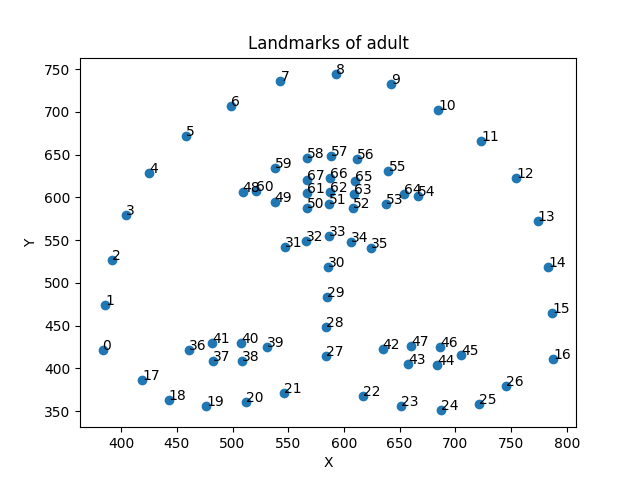
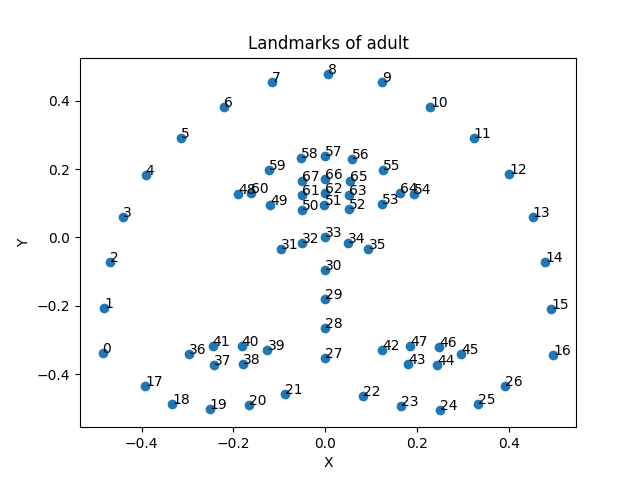
modify the scatter

diff --git a/src/scatter.py b/src/scatter.py
@@ -11,48 +11,26 @@ adult = landmarks[landmarks['baby'] == 0]
 def scatter(df, category):
     # calculate the means, medians,stds,range of x,y
     x_means = []
-    x_medians = []
-    x_stds = []
-    x_ranges = []
     y_means = []
-    y_medians = []
-    y_stds = []
-    y_ranges = []
 
     for i in range(68):
-        x_col = 'x{}'.format(i)
-        y_col = 'y{}'.format(i)
-        x_data = df[x_col]
-        y_data = df[y_col]
-        x_mean = np.mean(x_data)
-        x_median = np.median(x_data)
-        x_std = np.std(x_data)
-        x_range = np.max(x_data) - np.min(x_data)
-        y_mean = np.mean(y_data)
-        y_median = np.median(y_data)
-        y_std = np.std(y_data)
-        y_range = np.max(y_data) - np.min(y_data)
+        x_col = 'norm_cenrot-x{}'.format(i)
+        y_col = 'norm_cenrot-y{}'.format(i)
+        x_mean = np.mean(df[x_col])
         x_means.append(x_mean)
-        x_medians.append(x_median)
-        x_stds.append(x_std)
-        x_ranges.append(x_range)
+        x_median = np.median(df[x_col])
+        x_std = np.std(df[x_col])
+        x_range = np.max(df[x_col]) - np.min(df[x_col])
+        y_mean = np.mean(df[y_col])
         y_means.append(y_mean)
-        y_medians.append(y_median)
-        y_stds.append(y_std)
-        y_ranges.append(y_range)
+        y_median = np.median(df[y_col])
+        y_std = np.std(df[y_col])
+        y_range = np.max(df[y_col]) - np.min(df[y_col])
+        print('Column x{}: Mean={:.2f}, Median={:.2f}, Std={:.2f}, Range={:.2f}'.format(i, x_mean, x_median,
+                                                                                        x_std, x_range))
+        print('Column y{}: Mean={:.2f}, Median={:.2f}, Std={:.2f}, Range={:.2f}'.format(i, y_mean, y_median,
+                                                                                        y_std, y_range))
 
-    # output the outcome
-    for i in range(68):
-        print('Column x{}: Mean={:.2f}, Median={:.2f}, Std={:.2f}, Range={:.2f}'.format(i, x_means[i], x_medians[i],
-                                                                                        x_stds[i], x_ranges[i]))
-        print('Column y{}: Mean={:.2f}, Median={:.2f}, Std={:.2f}, Range={:.2f}'.format(i, y_means[i], y_medians[i],
-                                                                                        y_stds[i], y_ranges[i]))
-
-    '''
-    for i, (x, y) in enumerate(zip(x_mean, y_mean)):
-        plt.scatter(x, y)
-        plt.text(x + 0.02, y + 0.02, str(i), fontsize=10)
-    '''
 
     plt.scatter(x_means, y_means)
 
@@ -108,5 +86,3 @@ def scatter(df, category):
 scatter(infant, "infant")
 
 scatter(adult, "adult")
-
-

diff --git a/scatter.md b/scatter.md
@@ -8,142 +8,142 @@ Calculate the mean, median, standard deviation, and range of the variables, and 
 ## Result
 The mean, median, standard deviation, and range of the variables
 ```agsl
-Column x0: Mean=441.12, Median=351.00, Std=324.78, Range=1939.44
-Column y0: Mean=414.17, Median=331.45, Std=302.80, Range=2158.15
-Column x1: Mean=443.18, Median=354.00, Std=321.94, Range=1931.40
-Column y1: Mean=460.23, Median=375.00, Std=332.98, Range=2377.14
-Column x2: Mean=448.41, Median=358.65, Std=321.50, Range=1944.56
-Column y2: Mean=505.70, Median=411.00, Std=365.13, Range=2563.18
-Column x3: Mean=458.79, Median=373.28, Std=323.58, Range=1904.77
-Column y3: Mean=549.92, Median=451.00, Std=398.40, Range=2720.06
-Column x4: Mean=477.37, Median=387.00, Std=330.39, Range=1925.28
-Column y4: Mean=591.51, Median=491.00, Std=430.32, Range=2824.17
-Column x5: Mean=505.87, Median=406.00, Std=342.75, Range=1977.40
-Column y5: Mean=626.96, Median=521.24, Std=458.78, Range=2885.66
-Column x6: Mean=540.10, Median=432.29, Std=360.66, Range=2060.30
-Column y6: Mean=655.41, Median=541.46, Std=482.45, Range=2888.04
-Column x7: Mean=579.18, Median=467.57, Std=383.44, Range=2252.63
-Column y7: Mean=678.71, Median=562.00, Std=502.14, Range=2877.31
-Column x8: Mean=628.34, Median=510.74, Std=412.10, Range=2452.90
-Column y8: Mean=689.63, Median=572.27, Std=507.80, Range=2845.17
-Column x9: Mean=678.02, Median=559.42, Std=440.67, Range=2669.13
-Column y9: Mean=678.99, Median=561.11, Std=499.83, Range=2768.80
-Column x10: Mean=717.15, Median=586.10, Std=464.17, Range=2837.29
-Column y10: Mean=655.67, Median=548.00, Std=478.96, Range=2717.80
-Column x11: Mean=751.81, Median=617.00, Std=487.40, Range=2951.84
-Column y11: Mean=627.53, Median=524.41, Std=454.25, Range=2500.68
-Column x12: Mean=780.34, Median=642.98, Std=505.94, Range=3005.99
-Column y12: Mean=592.42, Median=493.00, Std=425.57, Range=2337.28
-Column x13: Mean=798.92, Median=656.58, Std=518.06, Range=3035.64
-Column y13: Mean=551.02, Median=456.13, Std=393.58, Range=2158.42
-Column x14: Mean=808.74, Median=668.56, Std=525.06, Range=3065.14
-Column y14: Mean=506.64, Median=418.00, Std=360.57, Range=2029.50
-Column x15: Mean=813.32, Median=670.36, Std=528.42, Range=3055.88
-Column y15: Mean=460.99, Median=374.67, Std=327.86, Range=1925.23
-Column x16: Mean=815.68, Median=673.38, Std=531.35, Range=3068.28
-Column y16: Mean=413.45, Median=329.32, Std=297.35, Range=1872.13
-Column x17: Mean=478.40, Median=386.85, Std=341.51, Range=2078.40
-Column y17: Mean=375.57, Median=299.26, Std=278.33, Range=1828.41
-Column x18: Mean=500.71, Median=402.58, Std=351.84, Range=2132.55
-Column y18: Mean=356.77, Median=282.50, Std=263.43, Range=1682.61
-Column x19: Mean=529.84, Median=424.00, Std=365.77, Range=2203.76
-Column y19: Mean=350.11, Median=276.00, Std=258.17, Range=1572.00
-Column x20: Mean=559.79, Median=450.58, Std=381.18, Range=2247.42
-Column y20: Mean=353.15, Median=281.99, Std=259.71, Range=1492.62
-Column x21: Mean=588.06, Median=475.46, Std=396.91, Range=2282.53
-Column y21: Mean=361.78, Median=289.35, Std=264.54, Range=1489.99
-Column x22: Mean=661.85, Median=546.86, Std=435.43, Range=2585.35
-Column y22: Mean=360.75, Median=288.00, Std=262.29, Range=1477.36
-Column x23: Mean=691.86, Median=569.20, Std=454.43, Range=2638.26
-Column y23: Mean=351.31, Median=279.50, Std=257.09, Range=1459.54
-Column x24: Mean=721.72, Median=595.55, Std=473.68, Range=2695.50
-Column y24: Mean=348.32, Median=275.00, Std=255.86, Range=1492.73
-Column x25: Mean=750.01, Median=620.74, Std=492.75, Range=2759.27
-Column y25: Mean=355.24, Median=281.00, Std=261.96, Range=1580.71
-Column x26: Mean=771.61, Median=641.00, Std=506.02, Range=2870.50
-Column y26: Mean=372.91, Median=296.00, Std=276.19, Range=1686.55
-Column x27: Mean=625.94, Median=514.00, Std=413.80, Range=2446.94
-Column y27: Mean=402.31, Median=328.00, Std=288.92, Range=1764.71
-Column x28: Mean=625.79, Median=512.21, Std=413.31, Range=2451.26
-Column y28: Mean=430.47, Median=349.35, Std=310.21, Range=1837.00
-Column x29: Mean=625.93, Median=516.28, Std=413.58, Range=2450.98
-Column y29: Mean=457.07, Median=371.43, Std=332.14, Range=1890.70
-Column x30: Mean=626.06, Median=513.00, Std=413.94, Range=2424.10
-Column y30: Mean=484.52, Median=394.35, Std=355.40, Range=1941.81
-Column x31: Mean=589.92, Median=477.00, Std=389.20, Range=2329.23
-Column y31: Mean=510.18, Median=423.00, Std=370.10, Range=2164.28
-Column x32: Mean=607.45, Median=488.00, Std=399.75, Range=2385.41
-Column y32: Mean=514.59, Median=424.06, Std=374.15, Range=2139.32
-Column x33: Mean=625.94, Median=508.54, Std=410.61, Range=2424.72
-Column y33: Mean=518.23, Median=428.00, Std=377.94, Range=2137.97
-Column x34: Mean=644.54, Median=522.00, Std=421.54, Range=2499.33
-Column y34: Mean=513.85, Median=426.44, Std=373.31, Range=2131.08
-Column x35: Mean=661.28, Median=541.00, Std=431.18, Range=2547.85
-Column y35: Mean=509.79, Median=421.72, Std=368.70, Range=2137.63
-Column x36: Mean=510.65, Median=411.53, Std=351.35, Range=2013.26
-Column y36: Mean=410.50, Median=330.69, Std=296.22, Range=1893.44
-Column x37: Mean=532.04, Median=429.31, Std=362.29, Range=2109.26
-Column y37: Mean=397.91, Median=321.38, Std=287.29, Range=1797.76
-Column x38: Mean=555.97, Median=448.67, Std=374.25, Range=2174.07
-Column y38: Mean=397.59, Median=322.00, Std=286.65, Range=1774.15
-Column x39: Mean=577.74, Median=470.00, Std=384.72, Range=2292.20
-Column y39: Mean=411.91, Median=337.03, Std=295.76, Range=1837.31
-Column x40: Mean=556.02, Median=449.00, Std=373.00, Range=2173.94
-Column y40: Mean=416.94, Median=340.07, Std=299.00, Range=1858.82
-Column x41: Mean=531.76, Median=429.08, Std=360.96, Range=2118.11
-Column y41: Mean=417.24, Median=337.02, Std=300.37, Range=1888.48
-Column x42: Mean=673.03, Median=553.21, Std=438.68, Range=2587.70
-Column y42: Mean=411.70, Median=336.00, Std=294.37, Range=1807.15
-Column x43: Mean=694.54, Median=574.99, Std=452.78, Range=2684.02
-Column y43: Mean=396.30, Median=321.46, Std=284.28, Range=1735.34
-Column x44: Mean=718.66, Median=593.51, Std=468.25, Range=2762.70
-Column y44: Mean=396.47, Median=323.72, Std=284.74, Range=1719.92
-Column x45: Mean=739.59, Median=611.00, Std=481.19, Range=2898.59
-Column y45: Mean=408.34, Median=334.96, Std=292.81, Range=1809.49
-Column x46: Mean=720.21, Median=593.93, Std=468.69, Range=2766.90
-Column y46: Mean=415.74, Median=341.29, Std=297.36, Range=1805.44
-Column x47: Mean=696.26, Median=573.69, Std=453.37, Range=2679.76
-Column y47: Mean=416.00, Median=341.09, Std=297.40, Range=1811.12
-Column x48: Mean=557.06, Median=448.06, Std=368.38, Range=2239.54
-Column y48: Mean=572.30, Median=477.00, Std=412.17, Range=2459.01
-Column x49: Mean=582.67, Median=466.45, Std=384.06, Range=2312.15
-Column y49: Mean=557.95, Median=468.06, Std=404.59, Range=2345.43
-Column x50: Mean=608.60, Median=492.00, Std=399.74, Range=2407.11
-Column y50: Mean=550.16, Median=458.00, Std=400.23, Range=2311.29
-Column x51: Mean=625.70, Median=509.00, Std=410.07, Range=2456.03
-Column y51: Mean=553.84, Median=459.89, Std=403.54, Range=2323.60
-Column x52: Mean=643.72, Median=523.00, Std=420.87, Range=2491.27
-Column y52: Mean=549.98, Median=456.00, Std=400.07, Range=2294.62
-Column x53: Mean=670.17, Median=545.46, Std=436.27, Range=2556.77
-Column y53: Mean=557.97, Median=463.82, Std=403.80, Range=2315.90
-Column x54: Mean=695.86, Median=569.00, Std=452.11, Range=2695.03
-Column y54: Mean=570.64, Median=480.00, Std=409.43, Range=2391.87
-Column x55: Mean=672.59, Median=544.55, Std=437.74, Range=2609.63
-Column y55: Mean=594.43, Median=493.00, Std=429.74, Range=2453.90
-Column x56: Mean=647.98, Median=532.56, Std=422.99, Range=2561.58
-Column y56: Mean=605.46, Median=502.26, Std=439.78, Range=2512.08
-Column x57: Mean=627.12, Median=507.00, Std=410.71, Range=2460.68
-Column y57: Mean=607.74, Median=501.59, Std=442.11, Range=2548.98
-Column x58: Mean=607.51, Median=489.81, Std=399.24, Range=2385.75
-Column y58: Mean=605.84, Median=504.00, Std=440.90, Range=2543.41
-Column x59: Mean=582.32, Median=468.40, Std=383.59, Range=2303.99
-Column y59: Mean=595.06, Median=495.42, Std=432.13, Range=2496.48
-Column x60: Mean=567.81, Median=456.95, Std=374.90, Range=2280.99
-Column y60: Mean=573.26, Median=478.56, Std=413.13, Range=2439.74
-Column x61: Mean=607.09, Median=486.95, Std=398.51, Range=2341.41
-Column y61: Mean=566.59, Median=473.00, Std=411.44, Range=2403.01
-Column x62: Mean=625.77, Median=511.29, Std=409.82, Range=2451.78
-Column y62: Mean=567.08, Median=472.71, Std=412.78, Range=2400.72
-Column x63: Mean=645.42, Median=528.76, Std=421.52, Range=2583.42
-Column y63: Mean=565.91, Median=469.36, Std=410.85, Range=2377.84
-Column x64: Mean=684.16, Median=564.00, Std=444.24, Range=2631.27
-Column y64: Mean=571.51, Median=477.25, Std=410.69, Range=2380.84
-Column x65: Mean=646.43, Median=527.15, Std=421.87, Range=2552.72
-Column y65: Mean=583.39, Median=484.00, Std=421.50, Range=2377.84
-Column x66: Mean=626.52, Median=511.07, Std=409.99, Range=2464.97
-Column y66: Mean=585.67, Median=486.00, Std=423.55, Range=2400.72
-Column x67: Mean=607.55, Median=492.00, Std=398.74, Range=2381.03
-Column y67: Mean=583.69, Median=483.09, Std=422.30, Range=2403.01
+Column x0: Mean=-0.49, Median=-0.50, Std=0.17, Range=0.81
+Column y0: Mean=-0.34, Median=-0.34, Std=0.12, Range=0.97
+Column x1: Mean=-0.48, Median=-0.49, Std=0.17, Range=0.78
+Column y1: Mean=-0.21, Median=-0.21, Std=0.11, Range=0.93
+Column x2: Mean=-0.47, Median=-0.47, Std=0.16, Range=0.76
+Column y2: Mean=-0.07, Median=-0.08, Std=0.11, Range=0.90
+Column x3: Mean=-0.44, Median=-0.45, Std=0.16, Range=0.72
+Column y3: Mean=0.06, Median=0.05, Std=0.10, Range=0.87
+Column x4: Mean=-0.39, Median=-0.41, Std=0.14, Range=0.68
+Column y4: Mean=0.18, Median=0.18, Std=0.10, Range=0.80
+Column x5: Mean=-0.31, Median=-0.33, Std=0.12, Range=0.61
+Column y5: Mean=0.29, Median=0.29, Std=0.09, Range=0.65
+Column x6: Mean=-0.22, Median=-0.23, Std=0.10, Range=0.54
+Column y6: Mean=0.38, Median=0.38, Std=0.07, Range=0.55
+Column x7: Mean=-0.12, Median=-0.12, Std=0.07, Range=0.54
+Column y7: Mean=0.46, Median=0.46, Std=0.06, Range=0.47
+Column x8: Mean=0.01, Median=0.00, Std=0.07, Range=0.57
+Column y8: Mean=0.48, Median=0.48, Std=0.05, Range=0.43
+Column x9: Mean=0.12, Median=0.12, Std=0.07, Range=0.58
+Column y9: Mean=0.45, Median=0.45, Std=0.06, Range=0.44
+Column x10: Mean=0.23, Median=0.23, Std=0.09, Range=0.63
+Column y10: Mean=0.38, Median=0.38, Std=0.07, Range=0.52
+Column x11: Mean=0.32, Median=0.33, Std=0.12, Range=0.69
+Column y11: Mean=0.29, Median=0.29, Std=0.09, Range=0.66
+Column x12: Mean=0.40, Median=0.41, Std=0.14, Range=0.71
+Column y12: Mean=0.18, Median=0.18, Std=0.10, Range=0.70
+Column x13: Mean=0.45, Median=0.45, Std=0.15, Range=0.74
+Column y13: Mean=0.06, Median=0.05, Std=0.10, Range=0.75
+Column x14: Mean=0.48, Median=0.48, Std=0.16, Range=0.73
+Column y14: Mean=-0.07, Median=-0.08, Std=0.11, Range=0.81
+Column x15: Mean=0.49, Median=0.49, Std=0.16, Range=0.75
+Column y15: Mean=-0.21, Median=-0.21, Std=0.11, Range=0.88
+Column x16: Mean=0.50, Median=0.50, Std=0.17, Range=0.84
+Column y16: Mean=-0.34, Median=-0.34, Std=0.12, Range=0.95
+Column x17: Mean=-0.39, Median=-0.41, Std=0.10, Range=0.72
+Column y17: Mean=-0.44, Median=-0.44, Std=0.07, Range=0.49
+Column x18: Mean=-0.33, Median=-0.35, Std=0.08, Range=0.67
+Column y18: Mean=-0.49, Median=-0.49, Std=0.06, Range=0.43
+Column x19: Mean=-0.25, Median=-0.26, Std=0.07, Range=0.58
+Column y19: Mean=-0.50, Median=-0.51, Std=0.05, Range=0.34
+Column x20: Mean=-0.17, Median=-0.17, Std=0.05, Range=0.47
+Column y20: Mean=-0.49, Median=-0.49, Std=0.04, Range=0.31
+Column x21: Mean=-0.09, Median=-0.09, Std=0.05, Range=0.38
+Column y21: Mean=-0.46, Median=-0.46, Std=0.04, Range=0.30
+Column x22: Mean=0.08, Median=0.09, Std=0.04, Range=0.40
+Column y22: Mean=-0.46, Median=-0.47, Std=0.04, Range=0.31
+Column x23: Mean=0.17, Median=0.17, Std=0.05, Range=0.43
+Column y23: Mean=-0.49, Median=-0.50, Std=0.04, Range=0.30
+Column x24: Mean=0.25, Median=0.26, Std=0.06, Range=0.48
+Column y24: Mean=-0.51, Median=-0.51, Std=0.05, Range=0.38
+Column x25: Mean=0.33, Median=0.35, Std=0.07, Range=0.61
+Column y25: Mean=-0.49, Median=-0.49, Std=0.06, Range=0.49
+Column x26: Mean=0.39, Median=0.41, Std=0.09, Range=0.77
+Column y26: Mean=-0.44, Median=-0.44, Std=0.07, Range=0.51
+Column x27: Mean=-0.00, Median=0.00, Std=0.03, Range=0.29
+Column y27: Mean=-0.35, Median=-0.36, Std=0.04, Range=0.23
+Column x28: Mean=-0.00, Median=0.00, Std=0.02, Range=0.20
+Column y28: Mean=-0.27, Median=-0.27, Std=0.02, Range=0.14
+Column x29: Mean=-0.00, Median=0.00, Std=0.02, Range=0.17
+Column y29: Mean=-0.18, Median=-0.18, Std=0.02, Range=0.11
+Column x30: Mean=-0.00, Median=0.00, Std=0.03, Range=0.22
+Column y30: Mean=-0.09, Median=-0.09, Std=0.03, Range=0.17
+Column x31: Mean=-0.10, Median=-0.10, Std=0.02, Range=0.13
+Column y31: Mean=-0.03, Median=-0.03, Std=0.02, Range=0.15
+Column x32: Mean=-0.05, Median=-0.05, Std=0.01, Range=0.07
+Column y32: Mean=-0.02, Median=-0.01, Std=0.01, Range=0.07
+Column x33: Mean=0.00, Median=0.00, Std=0.00, Range=0.00
+Column y33: Mean=0.00, Median=0.00, Std=0.00, Range=0.00
+Column x34: Mean=0.05, Median=0.05, Std=0.01, Range=0.08
+Column y34: Mean=-0.02, Median=-0.02, Std=0.01, Range=0.07
+Column x35: Mean=0.09, Median=0.09, Std=0.02, Range=0.15
+Column y35: Mean=-0.03, Median=-0.03, Std=0.02, Range=0.15
+Column x36: Mean=-0.30, Median=-0.31, Std=0.08, Range=0.46
+Column y36: Mean=-0.34, Median=-0.34, Std=0.06, Range=0.38
+Column x37: Mean=-0.24, Median=-0.25, Std=0.07, Range=0.43
+Column y37: Mean=-0.37, Median=-0.38, Std=0.05, Range=0.33
+Column x38: Mean=-0.18, Median=-0.19, Std=0.06, Range=0.38
+Column y38: Mean=-0.37, Median=-0.37, Std=0.05, Range=0.32
+Column x39: Mean=-0.13, Median=-0.13, Std=0.06, Range=0.34
+Column y39: Mean=-0.33, Median=-0.33, Std=0.05, Range=0.30
+Column x40: Mean=-0.18, Median=-0.19, Std=0.06, Range=0.36
+Column y40: Mean=-0.32, Median=-0.32, Std=0.05, Range=0.37
+Column x41: Mean=-0.25, Median=-0.26, Std=0.07, Range=0.41
+Column y41: Mean=-0.32, Median=-0.32, Std=0.05, Range=0.39
+Column x42: Mean=0.12, Median=0.13, Std=0.06, Range=0.45
+Column y42: Mean=-0.33, Median=-0.33, Std=0.05, Range=0.31
+Column x43: Mean=0.18, Median=0.19, Std=0.06, Range=0.48
+Column y43: Mean=-0.37, Median=-0.38, Std=0.05, Range=0.33
+Column x44: Mean=0.24, Median=0.25, Std=0.06, Range=0.57
+Column y44: Mean=-0.37, Median=-0.38, Std=0.05, Range=0.35
+Column x45: Mean=0.30, Median=0.31, Std=0.07, Range=0.62
+Column y45: Mean=-0.34, Median=-0.35, Std=0.06, Range=0.37
+Column x46: Mean=0.25, Median=0.26, Std=0.06, Range=0.56
+Column y46: Mean=-0.32, Median=-0.32, Std=0.05, Range=0.40
+Column x47: Mean=0.18, Median=0.19, Std=0.06, Range=0.49
+Column y47: Mean=-0.32, Median=-0.32, Std=0.05, Range=0.39
+Column x48: Mean=-0.19, Median=-0.19, Std=0.07, Range=0.41
+Column y48: Mean=0.13, Median=0.13, Std=0.05, Range=0.33
+Column x49: Mean=-0.12, Median=-0.12, Std=0.04, Range=0.30
+Column y49: Mean=0.10, Median=0.10, Std=0.03, Range=0.20
+Column x50: Mean=-0.05, Median=-0.05, Std=0.03, Range=0.20
+Column y50: Mean=0.08, Median=0.08, Std=0.03, Range=0.17
+Column x51: Mean=-0.00, Median=-0.00, Std=0.02, Range=0.17
+Column y51: Mean=0.09, Median=0.09, Std=0.03, Range=0.16
+Column x52: Mean=0.05, Median=0.05, Std=0.02, Range=0.19
+Column y52: Mean=0.08, Median=0.08, Std=0.03, Range=0.16
+Column x53: Mean=0.12, Median=0.12, Std=0.04, Range=0.31
+Column y53: Mean=0.10, Median=0.10, Std=0.03, Range=0.22
+Column x54: Mean=0.19, Median=0.20, Std=0.07, Range=0.42
+Column y54: Mean=0.13, Median=0.13, Std=0.05, Range=0.33
+Column x55: Mean=0.13, Median=0.13, Std=0.05, Range=0.37
+Column y55: Mean=0.20, Median=0.20, Std=0.04, Range=0.39
+Column x56: Mean=0.06, Median=0.06, Std=0.03, Range=0.34
+Column y56: Mean=0.23, Median=0.23, Std=0.05, Range=0.36
+Column x57: Mean=0.00, Median=-0.00, Std=0.03, Range=0.34
+Column y57: Mean=0.24, Median=0.24, Std=0.05, Range=0.37
+Column x58: Mean=-0.05, Median=-0.05, Std=0.04, Range=0.34
+Column y58: Mean=0.23, Median=0.23, Std=0.05, Range=0.39
+Column x59: Mean=-0.12, Median=-0.12, Std=0.05, Range=0.35
+Column y59: Mean=0.20, Median=0.20, Std=0.04, Range=0.37
+Column x60: Mean=-0.16, Median=-0.16, Std=0.07, Range=0.41
+Column y60: Mean=0.13, Median=0.13, Std=0.05, Range=0.30
+Column x61: Mean=-0.05, Median=-0.05, Std=0.03, Range=0.22
+Column y61: Mean=0.12, Median=0.13, Std=0.03, Range=0.20
+Column x62: Mean=-0.00, Median=-0.00, Std=0.02, Range=0.19
+Column y62: Mean=0.13, Median=0.13, Std=0.03, Range=0.18
+Column x63: Mean=0.05, Median=0.05, Std=0.03, Range=0.20
+Column y63: Mean=0.12, Median=0.13, Std=0.03, Range=0.19
+Column x64: Mean=0.16, Median=0.17, Std=0.06, Range=0.40
+Column y64: Mean=0.13, Median=0.13, Std=0.05, Range=0.32
+Column x65: Mean=0.05, Median=0.05, Std=0.03, Range=0.27
+Column y65: Mean=0.17, Median=0.16, Std=0.04, Range=0.37
+Column x66: Mean=-0.00, Median=-0.00, Std=0.03, Range=0.29
+Column y66: Mean=0.17, Median=0.17, Std=0.04, Range=0.37
+Column x67: Mean=-0.05, Median=-0.05, Std=0.03, Range=0.29
+Column y67: Mean=0.17, Median=0.16, Std=0.04, Range=0.38
 ```
 ### Boxplots are as follows.
 ![infant](./outcome/outlier_selection/boxplot_x.png)
